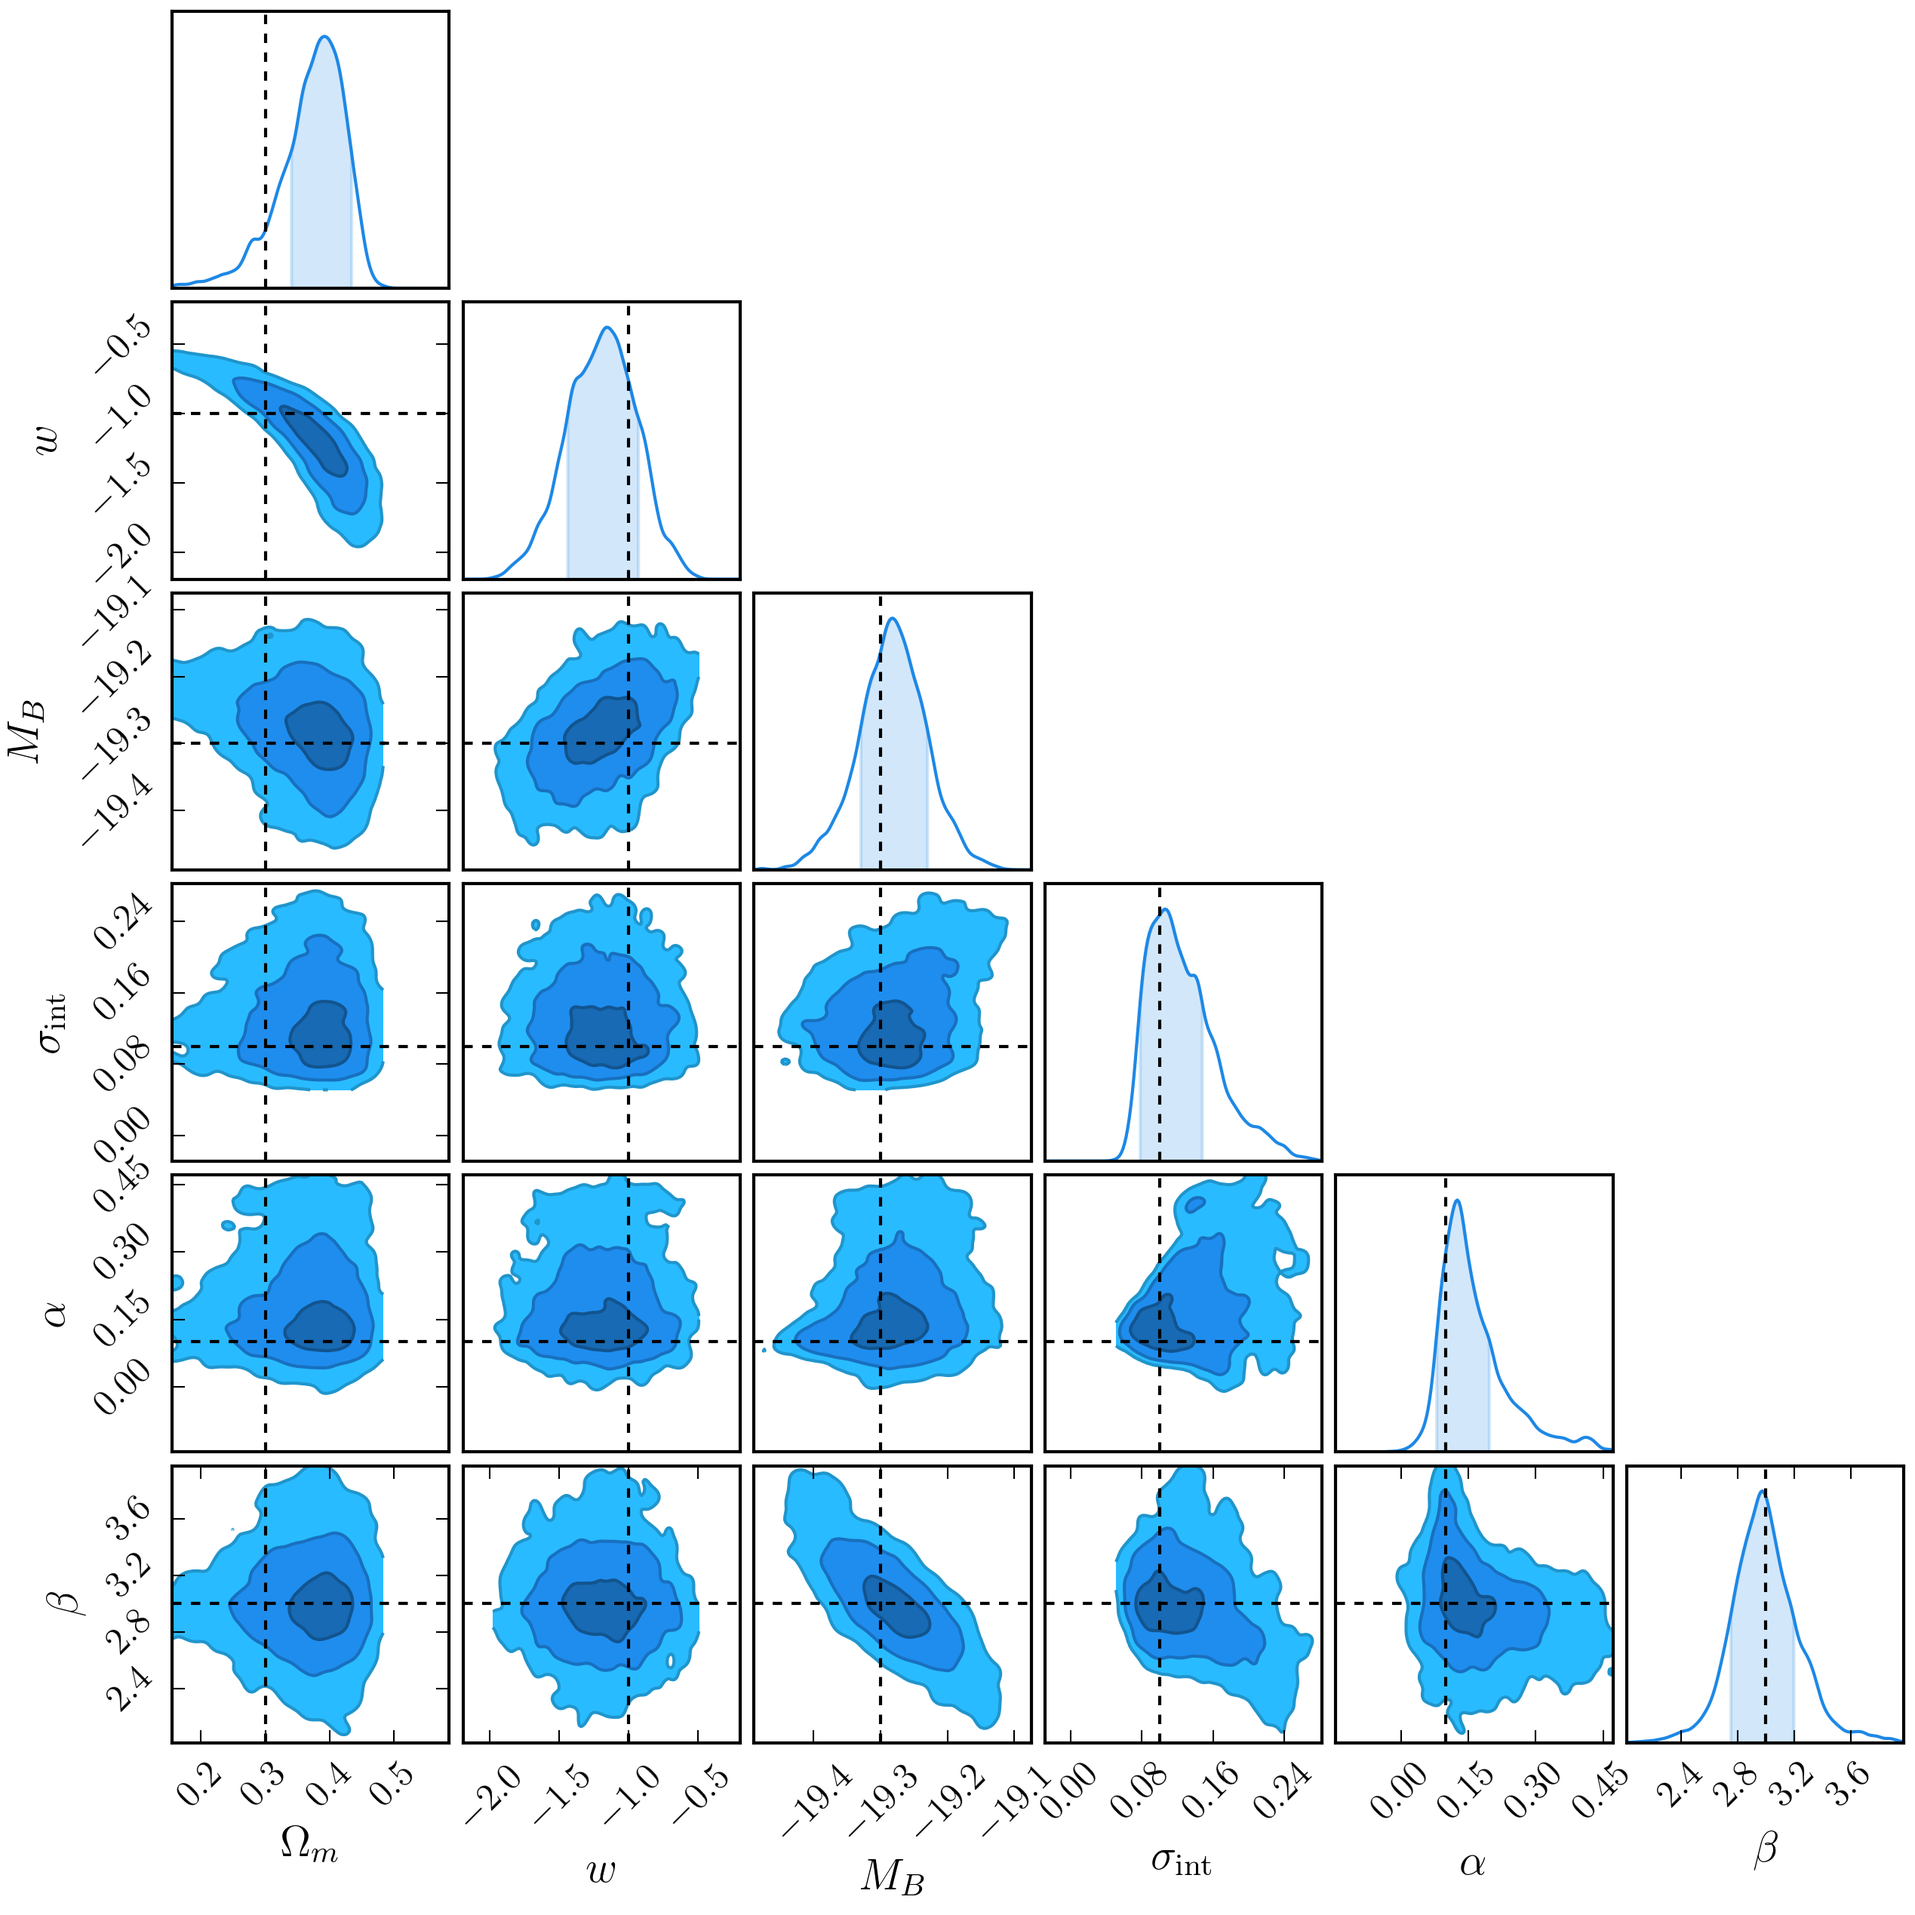
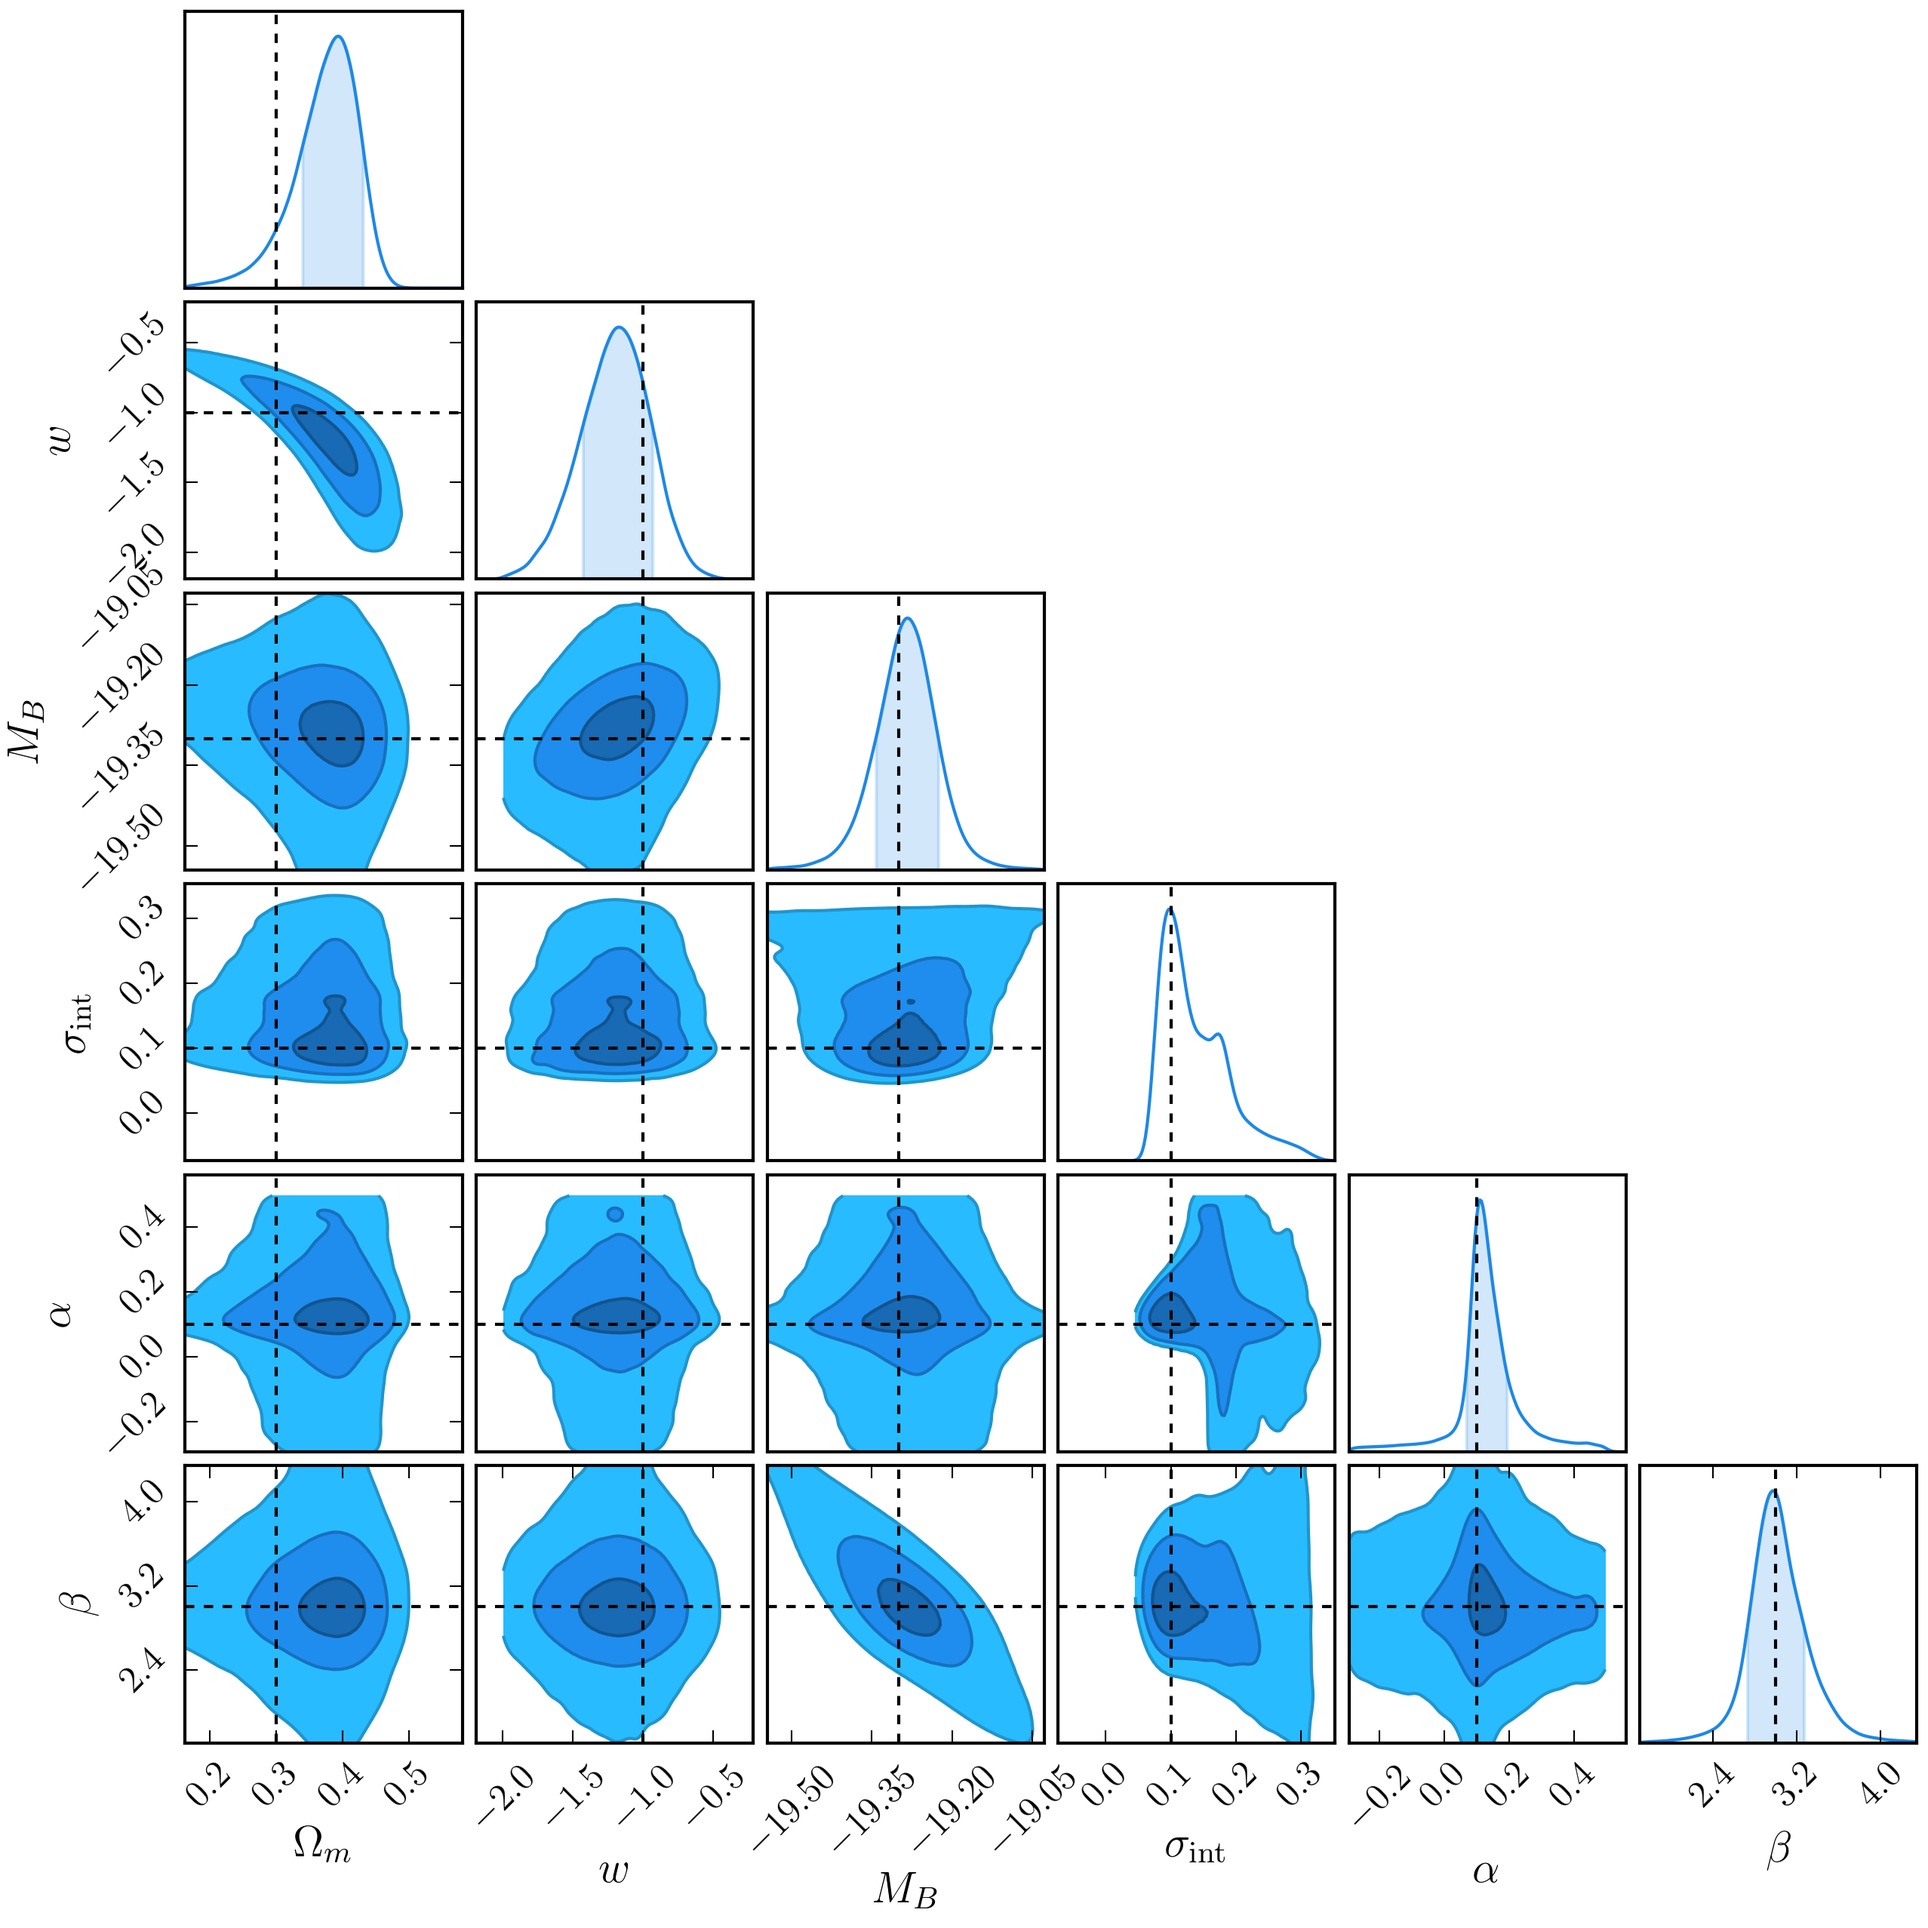
Increasing warmup

Changed region(s): [[0.0, 0.0, 0.9961, 0.9961]]

diff --git a/dessn/models/d_simple_stan/run_stan.py b/dessn/models/d_simple_stan/run_stan.py
@@ -187,7 +187,7 @@ if __name__ == "__main__":
         i = int(sys.argv[1])
         t = output_dir + "/stan%d.pkl" % i
         sm = pystan.StanModel(file="model.stan", model_name="Cosmology")
-        fit = sm.sampling(data=data, iter=10000, warmup=2000, chains=1, init=init_fn)
+        fit = sm.sampling(data=data, iter=20000, warmup=10000, chains=1, init=init_fn)
 
         # Dump relevant chains to file
         with open(t, 'wb') as output:
